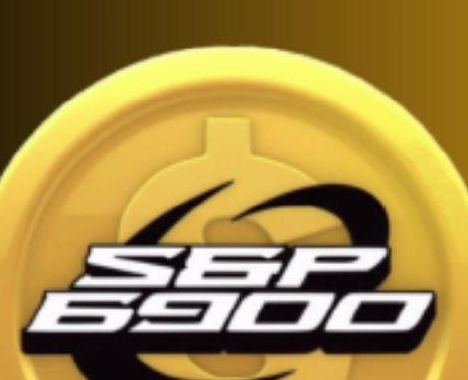
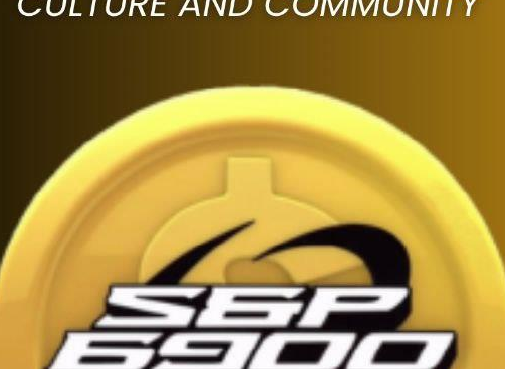
update

diff --git a/dist/index.js b/dist/index.js
@@ -127,7 +127,7 @@ const readPageContent = (0, agents_1.tool)({
                 messages: [
                     {
                         role: "system",
-                        content: "You are an OCR + layout engine. Return Markdown that preserves the page's reading order and formatting. Map larger font sizes to Markdown heading levels (#, ##, ###) without inventing new headings. Preserve bold and italics. Detect figures/images/charts/logos present on the page and insert Markdown image placeholders sized to the detected regions, using the provided placeholder service base URL. Preserve lists, tables, and line breaks. Detect visible hyperlinks or link-like texts and output them as Markdown links using the provided link placeholder URL. Output Markdown only, with no additional comments.",
+                        content: "You are an OCR + layout engine. Return Markdown that preserves the page's reading order and formatting. Map larger font sizes to Markdown heading levels (#, ##, ###) without inventing new headings. Preserve bold and italics. Detect figures/images/charts/logos present on the page and insert Markdown image placeholders sized to the detected regions, using the provided placeholder service base URL. Preserve lists, tables, and line breaks. Detect visible hyperlinks or link-like texts and output them as Markdown links using the provided link placeholder URL. IMPORTANT: Do not include standalone page numbers (like '3', '4', '5' etc.) in the output as they will be added automatically by the system. Skip isolated page numbers that appear at the bottom or margins of pages. Output Markdown only, with no additional comments.",
                     },
                     {
                         role: "user",
@@ -153,6 +153,8 @@ const readPageContent = (0, agents_1.tool)({
                                         "- Detect visible hyperlinks or link-like text. Output them as Markdown links: [testo del link](" +
                                             LINK_PLACEHOLDER_URL +
                                             "). Do not invent real URLs.\n";
+                                    header +=
+                                        "- IMPORTANT: Skip standalone page numbers (like '3', '4', '5') that appear at the bottom or margins - these will be added automatically.\n";
                                     header += "- Keep reading order accurate.\n";
                                     if (pageWidth && pageHeight)
                                         header += `Context: The source page is ${pageWidth}x${pageHeight} pixels. Use this to estimate image region sizes.\n`;

diff --git a/index.ts b/index.ts
@@ -146,7 +146,7 @@ const readPageContent = tool({
 				{
 					role: "system",
 					content:
-						"You are an OCR + layout engine. Return Markdown that preserves the page's reading order and formatting. Map larger font sizes to Markdown heading levels (#, ##, ###) without inventing new headings. Preserve bold and italics. Detect figures/images/charts/logos present on the page and insert Markdown image placeholders sized to the detected regions, using the provided placeholder service base URL. Preserve lists, tables, and line breaks. Detect visible hyperlinks or link-like texts and output them as Markdown links using the provided link placeholder URL. Output Markdown only, with no additional comments.",
+						"You are an OCR + layout engine. Return Markdown that preserves the page's reading order and formatting. Map larger font sizes to Markdown heading levels (#, ##, ###) without inventing new headings. Preserve bold and italics. Detect figures/images/charts/logos present on the page and insert Markdown image placeholders sized to the detected regions, using the provided placeholder service base URL. Preserve lists, tables, and line breaks. Detect visible hyperlinks or link-like texts and output them as Markdown links using the provided link placeholder URL. IMPORTANT: Do not include standalone page numbers (like '3', '4', '5' etc.) in the output as they will be added automatically by the system. Skip isolated page numbers that appear at the bottom or margins of pages. Output Markdown only, with no additional comments.",
 				},
 				{
 					role: "user",
@@ -173,6 +173,8 @@ const readPageContent = tool({
 									"- Detect visible hyperlinks or link-like text. Output them as Markdown links: [testo del link](" +
 									LINK_PLACEHOLDER_URL +
 									"). Do not invent real URLs.\n";
+								header +=
+									"- IMPORTANT: Skip standalone page numbers (like '3', '4', '5') that appear at the bottom or margins - these will be added automatically.\n";
 								header += "- Keep reading order accurate.\n";
 								if (pageWidth && pageHeight)
 									header += `Context: The source page is ${pageWidth}x${pageHeight} pixels. Use this to estimate image region sizes.\n`;

diff --git a/final_book.md b/final_book.md
@@ -5,15 +5,15 @@
 ---
 # ALLA SCOPERTA DI SPX6900
 
-## IL PRIMO VERO ASSET DI PURA FIDUCIA AL MONDO
+## IL PRIMO ASSET DI PURA FEDE AL MONDO
 
 *LA NASCITA DI UN TOKEN BASATO SU CONVINZIONE, CULTURA E COMUNITÀ*
 
-<img src="extracted_images/page-001/page-001-img-01.png" alt="Logo circolare simile a una moneta con la scritta SPX6900" width="468" height="380" />
+<img src="extracted_images/page-001/page-001-img-01.png" alt="immagine circolare color oro simile a una moneta con la scritta 'SPX6900' al centro" width="505" height="369" />
 
-**Una rivoluzione degli asset di pura fiducia**
+**La Rivoluzione di un Asset di Pura Fede**
 
-*Di Audacious*
+*A cura di Audacious*
 
 <div align="center">
 
@@ -25,13 +25,11 @@
 <!-- page: 2 -->
 
 ---
-# Scoprendo SPX6900: Il Primo Pure Belief Asset al Mondo
+# Scoprendo SPX6900: Il Primo Asset di Pura Fede al Mondo
 
 *La nascita di un token fondato su convinzione, cultura e comunità*
 
-**Una rivoluzione dei Pure Belief Asset**
-
-**2**
+**Una rivoluzione degli asset di pura fede**
 
 <div align="center">
 
@@ -43,23 +41,21 @@
 <!-- page: 3 -->
 
 ---
-**Avviso sul Copyright**
+**Avviso di Copyright**
 
 © 2025 Audacious. Tutti i diritti riservati.
 
-Questo e-book è **100% gratuito da scaricare e condividere**. Sei il benvenuto — anzi, sei incoraggiato — a distribuirlo ad amici, comunità online e a chiunque possa trarre beneficio dall’apprendere il movimento SPX6900.
+Questo e-book è **100% gratuito da scaricare e condividere.** Sei invitato — anzi, incoraggiato — a distribuirlo tra amici, comunità online e chiunque possa essere interessato a conoscere il movimento SPX6900.
 
 Tuttavia, ti preghiamo di rispettare le seguenti condizioni:
 
-- **Non puoi modificare, alterare o ripubblicare** nessuna parte di questo e-book.
+- **Non è consentito modificare, alterare o ripubblicare** alcuna parte di questo e-book.
 - La rivendita commerciale è severamente vietata.
-- Questo e-book **può contenere link di affiliazione, menzioni promozionali o link per donazioni** che potrebbero offrire un piccolo vantaggio all’autore e ad altri Aeons se utilizzati dai lettori.
+- Questo e-book **può contenere link di referral, menzioni promozionali o link per donazioni** che potrebbero offrire un piccolo beneficio all’autore e ad altri Aeons se utilizzati dai lettori.
 
-Condividendo questo e-book, contribuisci a far conoscere un movimento in crescita. Grazie per rispettare l’integrità del contenuto e il messaggio per cui è stato creato.
+Condividendo questo e-book, aiuti a diffondere la conoscenza di un movimento in crescita. Grazie per rispettare l’integrità dei contenuti e il messaggio originale.
 
 Prima edizione, luglio 2025
-
-**3**
 
 <div align="center">
 
@@ -73,17 +69,15 @@ Prima edizione, luglio 2025
 ---
 **Disclaimer**
 
-Questo e-book è **destinato esclusivamente a scopi informativi ed educativi.** I contenuti riflettono le opinioni, interpretazioni e ricerche dell'autore e **non costituiscono consulenza finanziaria, legale o d’investimento.**
+Questo e-book è solo a **scopo informativo ed educativo.** Il contenuto riflette le opinioni, interpretazioni e ricerche dell'autore e **non deve essere considerato come consulenza finanziaria, di investimento o legale.**
 
-Gli investimenti in criptovalute e asset digitali comportano **rischi significativi** e possono causare la **perdita totale del capitale investito.** Effettua sempre le tue ricerche (DYOR) e consulta un consulente finanziario o un professionista abilitato prima di prendere qualsiasi decisione di investimento.
+Gli investimenti in criptovalute e asset digitali comportano **rischi significativi** e possono portare alla **perdita totale del capitale investito.** Fai sempre le tue ricerche (DYOR) e consulta un consulente finanziario autorizzato o un professionista prima di prendere qualsiasi decisione di investimento.
 
-Sebbene questo e-book esplori la filosofia, la tokenomica e la community che ruotano intorno a SPX6900, non rappresenta in alcun modo un invito all’acquisto, vendita o detenzione di alcun asset digitale. L’autore non è responsabile per eventuali decisioni prese dai lettori sulla base delle informazioni qui presentate.
+Questo e-book esplora la filosofia, la tokenomics e la community di SPX6900, ma **non costituisce una raccomandazione** ad acquistare, vendere o detenere alcun asset digitale. L’autore non è responsabile per le decisioni prese dai lettori sulla base delle informazioni contenute in questo testo.
 
-Leggendo questo e-book, riconosci e accetti che l’autore non è responsabile per eventuali perdite o decisioni prese sulla base del materiale presentato e che il mondo delle criptovalute è volatile, speculativo e intrinsecamente rischioso.
+Leggendo questo e-book, riconosci e accetti che l’autore non sia responsabile per eventuali perdite o decisioni che prenderai sulla base del materiale presentato, e che il mondo delle criptovalute è volatile, speculativo e intrinsecamente rischioso.
 
 Investi con saggezza. Credi con responsabilità.
-
-**4**
 
 <div align="center">
 
@@ -97,23 +91,49 @@ Investi con saggezza. Credi con responsabilità.
 ---
 **Mancia in SPX6900**
 
-Questo e-book è completamente gratuito, ma se desideri inviarmi una mancia in SPX6900 come riconoscimento per il tempo, l’impegno e la ricerca che ho dedicato alla sua realizzazione, te ne sarei davvero grato.
+Questo e-book è completamente gratuito, ma se desideri lasciarmi una mancia in SPX6900 per il tempo, l’impegno e la ricerca che ho dedicato a realizzarlo, te ne sarei davvero grato.
 
-**Indirizzo wallet SPX Ethereum [qui:](https://example.com/placeholder)**
+**Indirizzo wallet SPX Ethereum [qui](https://example.com/placeholder):**
 
 0x22D3b939a7E832232e833e8dF22ac1ba9D7610B0
 
-**Indirizzo wallet SPX Solana [qui:](https://example.com/placeholder)**
+**Indirizzo wallet SPX Solana [qui](https://example.com/placeholder):**
 
 25zojSFpVu1qsETY9MMZFFy8jZEu7peDCsDrU2o8xzcR
 
 **Grazie di cuore per il tuo sostegno al mio lavoro!**
 
-**Ogni mancia è veramente apprezzata.**
+**Ogni mancia è profondamente apprezzata.**
 
-Condividi questo e-book con quante più persone possibile, per aiutarle ad unirsi alla nostra missione e cambiare la loro vita!
+Condividi questo e-book con tutte le persone che vuoi aiutare a unirti alla nostra missione e cambiare la loro vita!
 
-<p align="center">5</p>
+<div align="center">
+
+5
+
+</div>
+
+
+<!-- page: 5 -->
+
+---
+**Mancia in SPX6900**
+
+Questo e-book è completamente gratuito, ma se desideri lasciarmi una mancia in SPX6900 per il tempo, l’impegno e la ricerca che ho dedicato a realizzarlo, te ne sarei davvero grato.
+
+**Indirizzo wallet SPX Ethereum [qui](https://example.com/placeholder):**
+
+0x22D3b939a7E832232e833e8dF22ac1ba9D7610B0
+
+**Indirizzo wallet SPX Solana [qui](https://example.com/placeholder):**
+
+25zojSFpVu1qsETY9MMZFFy8jZEu7peDCsDrU2o8xzcR
+
+**Grazie di cuore per il tuo sostegno al mio lavoro!**
+
+**Ogni mancia è profondamente apprezzata.**
+
+Condividi questo e-book con tutte le persone che vuoi aiutare a unirsi alla nostra missione e cambiare la loro vita!
 
 <div align="center">
 
@@ -127,24 +147,37 @@ Condividi questo e-book con quante più persone possibile, per aiutarle ad unirs
 ---
 ## Indice
 
-Prefazione .......................................................................................8  
-Tutto parte da Bitcoin .................................................................9  
-Che cos'è SPX6900? .................................................................15  
-Perché SPX6900 è diverso? ..................................................21  
-La proposta di valore di SPX6900 .......................................28  
-L'importanza della cultura SPX6900 .................................33  
-Che cos'è la cultura SPX6900? ............................................36  
-La realtà del mondo cripto ....................................................44  
-Tokenomics di SPX6900 ...........................................................56  
-Qual è il vantaggio competitivo di SPX6900? ..................61  
-Nessuno verrà a salvarci ..........................................................67  
-Il futuro sembra promettente ..............................................74  
-Come NON avere successo nel mondo cripto ................81  
-Come acquistare SPX6900? ....................................................89  
-Come costruire la propria convinzione? ..........................100  
-Il potere del DCA collettivo a lungo termine su SPX6900...103  
+Prefazione ........................................................................................................8
 
-<p align="center">6</p>
+Tutto inizia con Bitcoin ....................................................................................9
+
+Che cos'è SPX6900? ..................................................................................... 15
+
+Perché SPX6900 è diverso?..................................................................... 21
+
+La proposta di valore di SPX6900 .......................................................28
+
+L'importanza della cultura di SPX6900.............................................33
+
+Che cos'è la cultura di SPX6900? ..............................................................36
+
+La realtà del mondo cripto............................................................44
+
+Tokenomics di SPX6900...............................................................................56
+
+Qual è il vantaggio competitivo di SPX6900? ...................................................................... 61
+
+Nessuno verrà a salvarci ................................................................67
+
+Il futuro è promettente .........................................................................74
+
+Come non farcela nel mondo cripto.................................................................81
+
+Come acquistare SPX6900?............................................................................. 89
+
+Come costruire la propria convinzione?....................................................100
+
+La forza del DCA collettivo e a lungo termine su SPX6900....103
 
 <div align="center">
 
@@ -158,33 +191,31 @@ Il potere del DCA collettivo a lungo termine su SPX6900...103
 ---
 Parole finali .................................................................................. 110
 
-Domande Frequenti ............................................................. 111
+Domande frequenti ............................................................. 111
 
-Sostieni l'Autore ........................................................................ 128
+Sostieni l’autore .....................................................................128
 
-Risorse Utili ................................................................................. 130
+Altre risorse ...............................................................................130
 
-Appendice A: Segui questi Aeons su X .............................. 132
+Appendice A: Segui questi Aeons su X ............................. 132
 
-Appendice B: Segui questi Aeons su TikTok .................... 133
+Appendice B: Segui questi Aeons su TikTok .................. 133
 
-Appendice C: Tracker Obiettivo SPX 1.000 ...................... 134
+Appendice C: Tracciatore obiettivi SPX 1.000 ................ 134
 
-Appendice D: Tracker Obiettivo SPX 10.000 ................... 135
+Appendice D: Tracciatore obiettivi SPX 10.000 ............... 135
 
-Appendice E: Grafici di Crescita delle Criptovalute ...... 136
+Appendice E: Grafici di crescita delle criptovalute ........ 136
 
-Appendice F: Citazioni Potenti dagli Aeons ..................... 139
+Appendice F: Citazioni infuocate dagli Aeons .................. 139
 
-Appendice G: Comprendere i Cicli Bull delle Cripto ...... 140
+Appendice G: Comprendere i cicli rialzisti delle crypto ... 140
 
-Appendice H: Checklist Nuovi Arrivati SPX6900 ............ 148
+Appendice H: Checklist per i nuovi arrivati SPX6900 ...... 148
 
-Ringraziamenti .......................................................................... 152
+Ringraziamenti ..................................................................... 152
 
-L'Autore ..................................................................................... 154
-
-<p align="center">7</p>
+Informazioni sull'autore ............................................................. 154
 
 <div align="center">
 
@@ -200,11 +231,11 @@ L'Autore .......................................................................
 
 Stiamo cercando di aiutarti.
 
-Dall’autore che ha scritto questo e-book alla persona che te lo ha passato — tutti noi stiamo semplicemente cercando di aiutarti.
+Dall'autore che ha scritto questo e-book alla persona che te lo ha passato — tutti noi stiamo semplicemente cercando di aiutarti.
 
 Crediamo davvero che SPX6900 possa migliorare la qualità della tua vita.
 
-È per questo che lo condividiamo con chiunque sia disposto ad ascoltare.
+Ecco perché lo condividiamo con chiunque sia disposto ad ascoltare.
 
 <div align="center">
 
@@ -216,21 +247,19 @@ Crediamo davvero che SPX6900 possa migliorare la qualità della tua vita.
 <!-- page: 9 -->
 
 ---
-## Tutto parte da Bitcoin
+## Tutto Ha Inizio con Bitcoin
 
-Potresti essere nuovo nel mondo delle criptovalute e saperne ancora poco — ma probabilmente hai già sentito parlare di Bitcoin.
+Magari sei nuovo nel mondo delle criptovalute e ne sai ancora poco — ma probabilmente hai comunque sentito parlare di Bitcoin.
 
-Difficile non averne sentito parlare, dopo la sua ascesa stellare da pochi centesimi nel 2009 a quasi 112.000 dollari nel maggio 2025.
+Difficile non aver sentito nominare Bitcoin dopo la sua ascesa fulminea: da pochi centesimi nel 2009 a quasi 112.000 dollari nel maggio 2025.
 
-<img src="extracted_images/page-009/page-009-img-01.png" alt="Logo di Bitcoin" width="329" height="329" />
+<img src="extracted_images/page-009/page-009-img-01.png" alt="Grande logo arancione di Bitcoin" width="318" height="252" />
 
 ### La Prima Criptovaluta
 
-Bitcoin è stata la prima criptovaluta, creata da uno sviluppatore anonimo conosciuto come Satoshi Nakamoto. Ha progettato Bitcoin come un sistema di pagamento alternativo e decentralizzato, una valuta che le banche centrali non potessero controllare o manipolare.
+Bitcoin è stata la prima criptovaluta, creata da uno sviluppatore anonimo noto come Satoshi Nakamoto. Ha progettato Bitcoin come un sistema di pagamento e una valuta alternativa e decentralizzata — che le banche centrali non potessero controllare o manipolare.
 
-Era un modo per permettere alle persone di inviare pagamenti diretti, da pari a pari, sulla rete Bitcoin utilizzando bitcoin (BTC) come valuta.
-
-<p align="center">9</p>
+Era un modo per consentire alle persone di inviare pagamenti diretti, da persona a persona, sulla rete Bitcoin utilizzando bitcoin (BTC) come moneta.
 
 <div align="center">
 
@@ -242,15 +271,13 @@ Era un modo per permettere alle persone di inviare pagamenti diretti, da pari a 
 <!-- page: 10 -->
 
 ---
-(Fig. 1.1) — senza l'intervento di terze parti (ad esempio, una banca) nella transazione.
+(Fig. 1.1) — senza l'intervento di terzi (cioè, una banca) nella transazione.
 
-<img src="extracted_images/page-010/page-010-img-01.png" alt="Infografica della rete peer to peer di Bitcoin con laptop e nodi" width="512" height="321" />
+<img src="extracted_images/page-010/page-010-img-01.png" alt="Schema della rete peer to peer di Bitcoin" width="478" height="329" />
 
-*(Fig. 1.1 – Rete Peer to Peer di Bitcoin)*
+(Fig. 1.1 – Rete Peer to Peer di Bitcoin)
 
-Satoshi Nakamoto è stato il primo a risolvere il problema della doppia spesa (cioè impedire che lo stesso bitcoin venga speso più di una volta) in modo decentralizzato e senza bisogno di fiducia.
-
-**10**
+Satoshi Nakamoto è stato il primo a risolvere il problema della doppia spesa (ovvero, impedire che lo stesso bitcoin venga speso più di una volta) in modo decentralizzato e senza bisogno di fiducia. Questa
 
 <div align="center">
 
